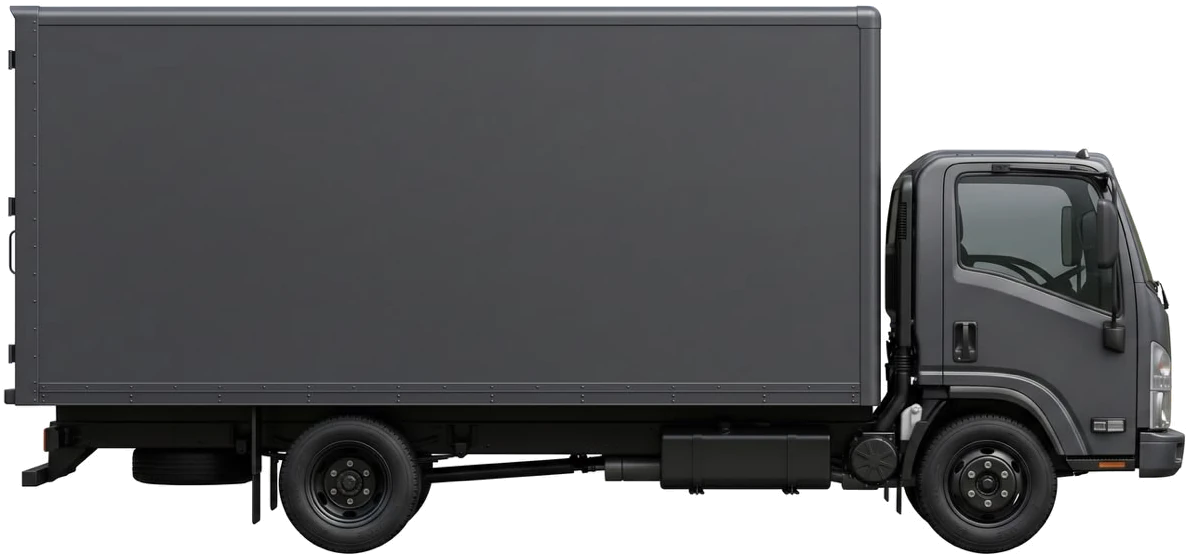
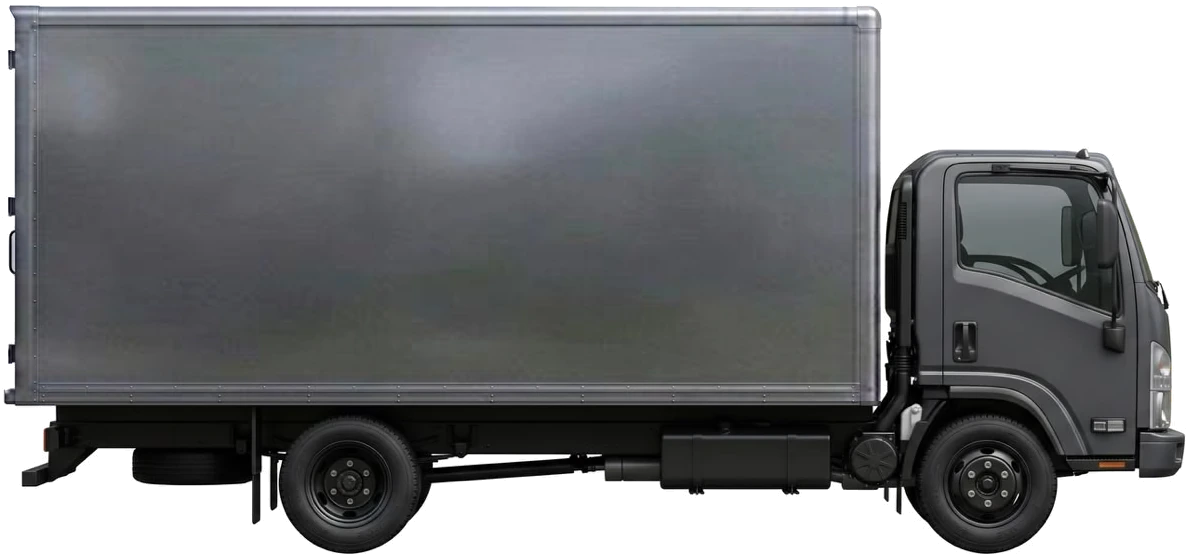
Story: realistic asphalt, aluminium truck box, shadows and a textured road (preview)
Claude-Session: https://claude.ai/code/session_019WMyie6cZGzj82B7Wd8Ze8

Changed region(s): [[0.0, 0.0, 0.7475, 0.7338]]

diff --git a/src/components/sections/Story.tsx b/src/components/sections/Story.tsx
@@ -47,6 +47,33 @@ const window01 = (p: number, a: number, b: number, edge = 0.25) => {
   return ease(Math.min(clamp(t / edge), clamp((1 - t) / edge)));
 };
 
+/** Paints a tileable asphalt texture once (fine grain, a few light chips). */
+function paintAsphalt(size = 256) {
+  const c = document.createElement('canvas');
+  c.width = size;
+  c.height = size;
+  const g = c.getContext('2d');
+  if (!g) return '';
+  const img = g.createImageData(size, size);
+  let x = 1337;
+  const rnd = () => {
+    x = (x * 16807) % 2147483647;
+    return x / 2147483647;
+  };
+  for (let i = 0; i < size * size; i++) {
+    const r = rnd();
+    let v = 54 + (r - 0.5) * 26;
+    if (r > 0.985) v = 92 + rnd() * 40; // light aggregate chips
+    else if (r < 0.02) v = 30;
+    img.data[i * 4] = v;
+    img.data[i * 4 + 1] = v + 1;
+    img.data[i * 4 + 2] = v + 3;
+    img.data[i * 4 + 3] = 255;
+  }
+  g.putImageData(img, 0, 0);
+  return c.toDataURL('image/png');
+}
+
 /**
  * Paints soft clouds once into a small bitmap. Moving a pre-drawn image is cheap; blurring a
  * tall layer on every frame is what made the cloud transition stutter.
@@ -115,6 +142,8 @@ function StoryFilm() {
   const roadSvgRef = useRef<SVGSVGElement>(null);
   const roadPathRef = useRef<SVGPathElement>(null);
   const lanePathRef = useRef<SVGPathElement>(null);
+  const roadLayers = useRef<(SVGPathElement | null)[]>([]);
+  const asphaltImgRef = useRef<SVGImageElement>(null);
   const topTruckRef = useRef<HTMLImageElement>(null);
   const mistRef = useRef<HTMLDivElement>(null);
   // leg 4
@@ -187,6 +216,7 @@ function StoryFilm() {
     let vh = 900;
     let Wr = 200; // road width
     let road = { Y0: 0, R: 0, cx: 0, LA: 0, LArc: 0, tw: 0, tl: 0, len: 0 };
+    let asphalt = '';
     const size = () => {
       const dpr = Math.min(window.devicePixelRatio || 1, 1.5);
       canvas.width = Math.round(canvas.clientWidth * dpr);
@@ -213,6 +243,12 @@ function StoryFilm() {
       roadPathRef.current?.setAttribute('d', d);
       lanePathRef.current?.setAttribute('d', d);
       roadPathRef.current?.setAttribute('stroke-width', String(Wr));
+      const widths = [Wr * 1.22, Wr * 1.14, Wr * 0.9, Wr * 0.875];
+      roadLayers.current.forEach((el, k) => {
+        if (!el) return;
+        el.setAttribute('d', d);
+        el.setAttribute('stroke-width', String(widths[k]));
+      });
       if (roadSvgRef.current) {
         roadSvgRef.current.setAttribute('width', String(vw));
         roadSvgRef.current.setAttribute('height', String(Y0 + R + len + Wr));
@@ -222,6 +258,11 @@ function StoryFilm() {
         topTruckRef.current.style.height = `${tl}px`;
       }
       road = { Y0, R, cx, LA: cx - R + Wr * 2, LArc: (Math.PI * R) / 2, tw, tl, len };
+
+      // Asphalt, painted once
+      if (!asphalt) asphalt = paintAsphalt();
+      if (laneRef.current) laneRef.current.style.backgroundImage = `url(${asphalt})`;
+      asphaltImgRef.current?.setAttribute('href', asphalt);
 
       // Clouds, painted once for this screen shape
       const aspect = (2.2 * vh) / vw;
@@ -388,16 +429,14 @@ function StoryFilm() {
 
         {/* ---------- Leg 1: loading, on white ---------- */}
         <div ref={loadRef} className="absolute inset-0 bg-paper text-ink" style={{ ['--h' as string]: '200px' }}>
-          <div ref={groundRef} className="absolute inset-x-0 bottom-0 bg-ink" style={{ height: '22%' }}>
-            <div
-              ref={laneRef}
-              aria-hidden="true"
-              className="absolute inset-x-0 top-1/2 h-[3px] -translate-y-1/2"
-              style={{ backgroundImage: 'linear-gradient(90deg, rgba(255,255,255,0.55) 0 50%, transparent 50% 100%)', backgroundSize: '54px 3px' }}
-            />
+          <div ref={groundRef} className="absolute inset-x-0 bottom-0 overflow-hidden bg-[#3a3b3e]" style={{ height: '22%' }}>
+            <div ref={laneRef} aria-hidden="true" className="absolute inset-0" style={{ backgroundSize: '180px 180px' }} />
+            {/* light falls off toward the front edge, with a soft line where the road meets the wall */}
+            <div aria-hidden="true" className="absolute inset-0 bg-[linear-gradient(to_bottom,rgba(0,0,0,0.35)_0%,rgba(255,255,255,0.05)_10%,transparent_35%,rgba(0,0,0,0.35)_100%)]" />
           </div>
           <div aria-hidden="true" className="absolute inset-x-0" style={{ bottom: '22%' }}>
-            <div ref={forkRef} className="absolute bottom-0 left-0" style={{ width: unit(FORK_W), height: unit(FORK_H) }}>
+            <div ref={forkRef} className="absolute bottom-0 left-0 [filter:drop-shadow(0_10px_8px_rgba(0,0,0,0.35))]" style={{ width: unit(FORK_W), height: unit(FORK_H) }}>
+              <div aria-hidden="true" className="absolute -bottom-[3%] left-[2%] right-[8%] h-[7%] rounded-[50%] bg-black/60 blur-[6px]" />
               <img src={PART('forklift')} alt="" className="absolute inset-0 h-full w-full" draggable={false} />
               <img
                 ref={carriageRef}
@@ -408,8 +447,9 @@ function StoryFilm() {
                 style={{ left: unit(CARRIAGE.left), top: unit(CARRIAGE.top), width: unit(CARRIAGE.w), height: unit(CARRIAGE.h) }}
               />
             </div>
-            <img ref={crateRef} src={PART('crate')} alt="" draggable={false} className="absolute bottom-0 left-0" style={{ width: unit(CRATE_W), height: unit(CRATE_H) }} />
-            <div ref={truckRef} className="absolute bottom-0 left-0" style={{ width: unit(TRUCK_W), height: unit(1) }}>
+            <img ref={crateRef} src={PART('crate')} alt="" draggable={false} className="absolute bottom-0 left-0 [filter:drop-shadow(0_8px_6px_rgba(0,0,0,0.3))]" style={{ width: unit(CRATE_W), height: unit(CRATE_H) }} />
+            <div ref={truckRef} className="absolute bottom-0 left-0 [filter:drop-shadow(0_12px_10px_rgba(0,0,0,0.35))]" style={{ width: unit(TRUCK_W), height: unit(1) }}>
+              <div aria-hidden="true" className="absolute -bottom-[2.5%] left-[1%] right-[1%] h-[6%] rounded-[50%] bg-black/60 blur-[6px]" />
               <img src={PART('truck')} alt="" className="absolute inset-0 h-full w-full" draggable={false} />
             </div>
           </div>
@@ -419,10 +459,22 @@ function StoryFilm() {
         <div ref={roadRef} aria-hidden="true" className="absolute inset-0 overflow-hidden bg-paper" style={{ visibility: 'hidden' }}>
           <div ref={worldRef} className="absolute inset-x-0 top-0 will-change-transform">
             <svg ref={roadSvgRef} className="absolute left-0 top-0 overflow-visible" fill="none">
-              <path ref={roadPathRef} stroke="#1B1E24" strokeLinejoin="round" />
-              <path ref={lanePathRef} stroke="rgba(255,255,255,0.55)" strokeWidth={3} strokeDasharray="28 26" />
+              <defs>
+                <pattern id="story-asphalt" patternUnits="userSpaceOnUse" width="180" height="180">
+                  <image ref={asphaltImgRef} width="180" height="180" />
+                </pattern>
+                <filter id="story-road-shadow" x="-10%" y="-10%" width="120%" height="120%">
+                  <feGaussianBlur stdDeviation="10" />
+                </filter>
+              </defs>
+              <path ref={(el) => { roadLayers.current[0] = el; }} stroke="rgba(15,20,35,0.22)" filter="url(#story-road-shadow)" />
+              <path ref={(el) => { roadLayers.current[1] = el; }} stroke="#D7DAE1" />
+              <path ref={roadPathRef} stroke="url(#story-asphalt)" />
+              <path ref={(el) => { roadLayers.current[2] = el; }} stroke="rgba(255,255,255,0.75)" />
+              <path ref={(el) => { roadLayers.current[3] = el; }} stroke="url(#story-asphalt)" />
+              <path ref={lanePathRef} stroke="rgba(255,255,255,0.7)" strokeWidth={3} strokeDasharray="30 28" />
             </svg>
-            <img ref={topTruckRef} src={PART('truck-top')} alt="" draggable={false} className="absolute left-0 top-0 max-w-none origin-center will-change-transform" />
+            <img ref={topTruckRef} src={PART('truck-top')} alt="" draggable={false} className="absolute left-0 top-0 max-w-none origin-center will-change-transform [filter:drop-shadow(6px_10px_8px_rgba(0,0,0,0.35))]" />
           </div>
         </div>
 
